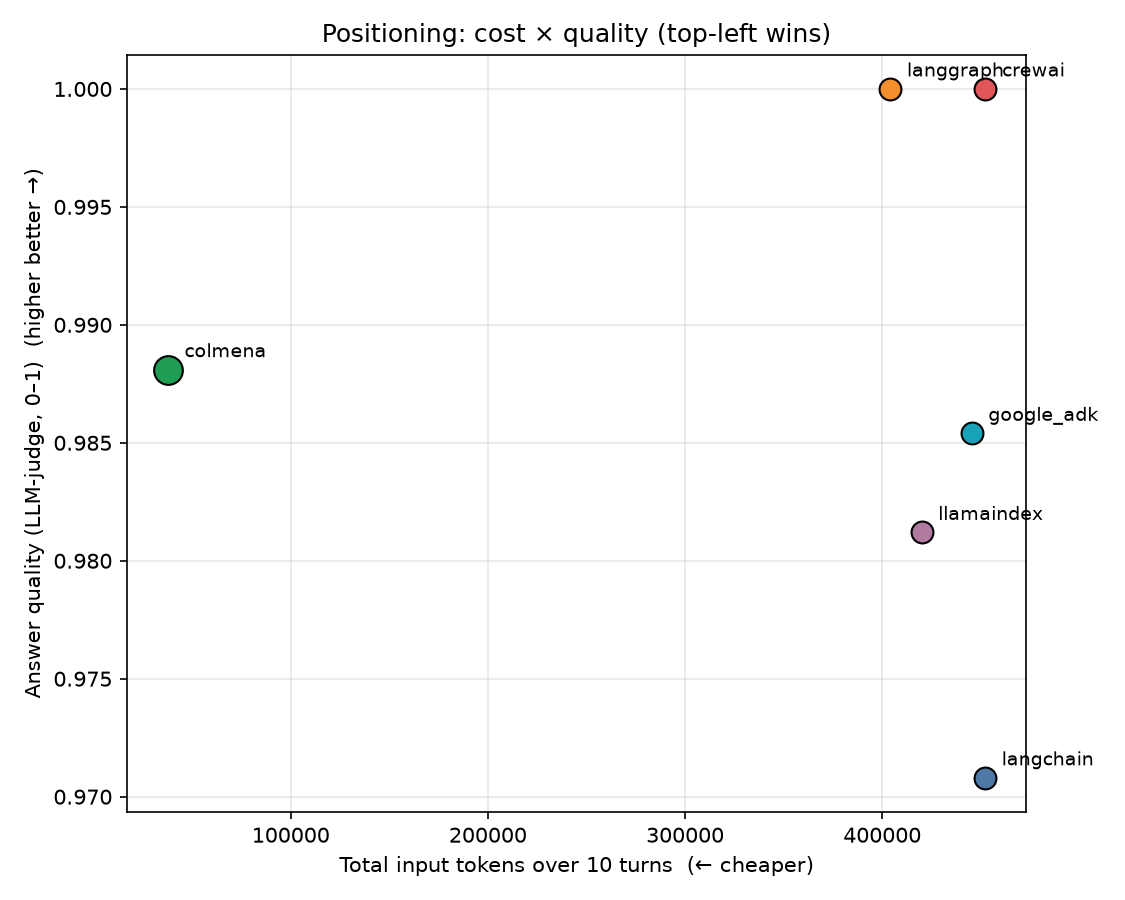
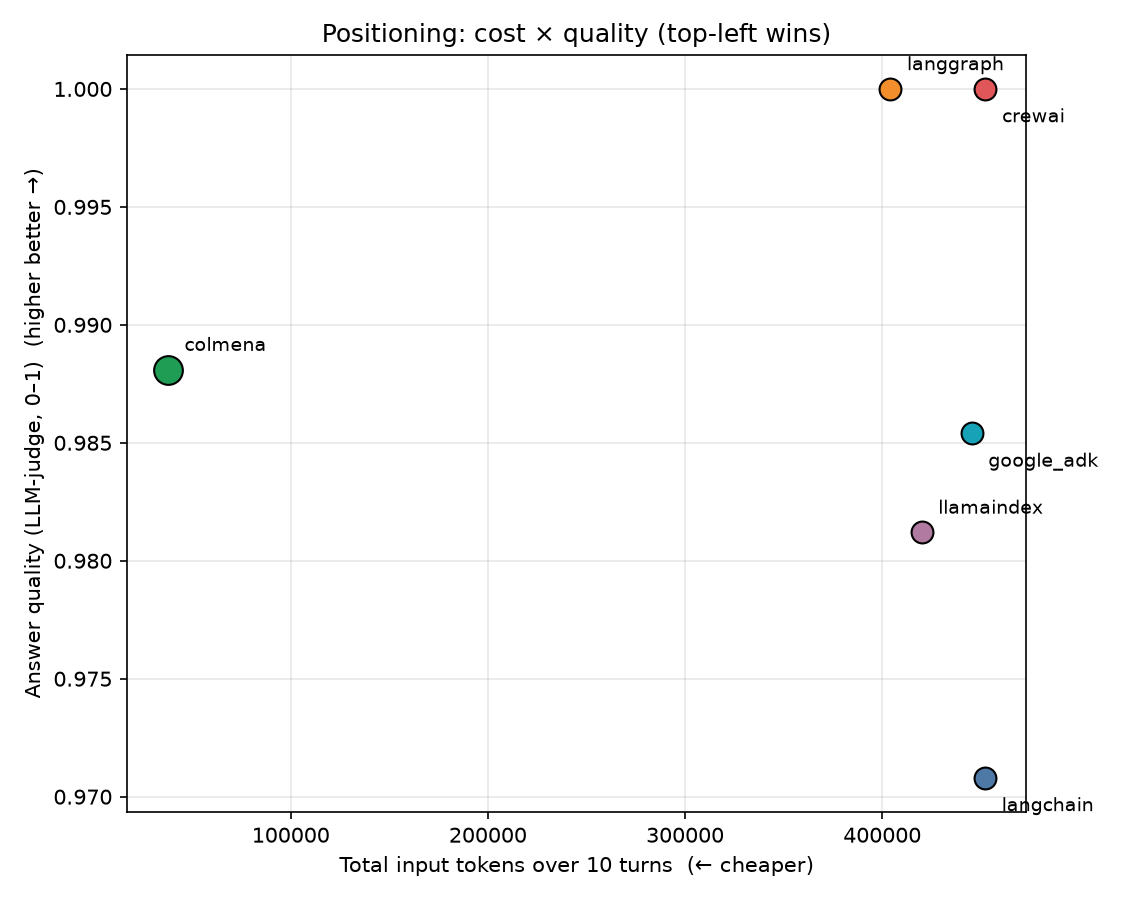
polish(demo05): fix cost×quality label overlap + curated pitch set in gallery

diff --git a/harness/orchestrator/demo05_plots.py b/harness/orchestrator/demo05_plots.py
@@ -318,15 +318,16 @@ def quadrant_cost_quality(agg, judge, outdir):
     if not judge:
         return
     fig, ax = plt.subplots(figsize=(7.5, 6))
-    for r in agg["frameworks"]:
-        n = r["framework"]
-        if n not in judge:
-            continue
+    # anti-overlap: nudge labels of points that are close on the y (quality) axis
+    pts = [(r["framework"], r["total_mean"], judge[r["framework"]]["mean"])
+           for r in agg["frameworks"] if r["framework"] in judge]
+    pts.sort(key=lambda p: (-p[2], p[1]))
+    for i, (n, x, y) in enumerate(pts):
         hi = n == COLMENA
-        ax.scatter(r["total_mean"], judge[n]["mean"], s=190 if hi else 110,
-                   color=_color(n), edgecolor="black", zorder=3 if hi else 2)
-        ax.annotate(n, (r["total_mean"], judge[n]["mean"]),
-                    textcoords="offset points", xytext=(8, 6), fontsize=9)
+        ax.scatter(x, y, s=190 if hi else 110, color=_color(n),
+                   edgecolor="black", zorder=3 if hi else 2)
+        dy = 9 if (i % 2 == 0) else -16   # alternate above/below to avoid collisions
+        ax.annotate(n, (x, y), textcoords="offset points", xytext=(8, dy), fontsize=9)
     ax.set_xlabel("Total input tokens over 10 turns  (← cheaper)")
     ax.set_ylabel("Answer quality (LLM-judge, 0–1)  (higher better →)")
     ax.set_title("Positioning: cost × quality (top-left wins)")

diff --git a/runs/demo05/report/GALLERY.md b/runs/demo05/report/GALLERY.md
@@ -12,6 +12,24 @@ provider-authoritative tokens (proxy), mean ± std over 12 runs.
 
 ---
 
+## ★ Recommended pitch set (5 charts, in order)
+
+A tight, non-redundant sequence — the rest below are backup/detail.
+
+1. **`2_line_cumulative`** — *"Watch what a normal multi-turn agent costs."* The
+   asymptote: Colmena flat, everyone else climbing. The single most convincing slide.
+2. **`14_quadrant_cost_quality`** — *"And it's not a quality tradeoff."* Colmena alone
+   in the cheap + high-quality corner (LLM-judged 0.99, tied).
+3. **`4_bar_usd`** — *"In money, at scale."* USD/conversation + the $/year projection.
+4. **`11_bar_ram`** — *"And it's lighter."* Rust footprint: 49 MB vs 96–279.
+5. **`5_multiplier_curve`** — *"And it compounds — the longer the chat, the bigger the gap."*
+
+Honesty slide to keep handy: CPU is mid-pack and wall-clock isn't featured (bench
+artifact) — leading with these makes the strong claims land. See
+[`../../../docs/SELLING_COLMENA.md`](../../../docs/SELLING_COLMENA.md).
+
+---
+
 ## Headliners (the pitch)
 
 ### Cumulative input tokens per turn — the asymptote